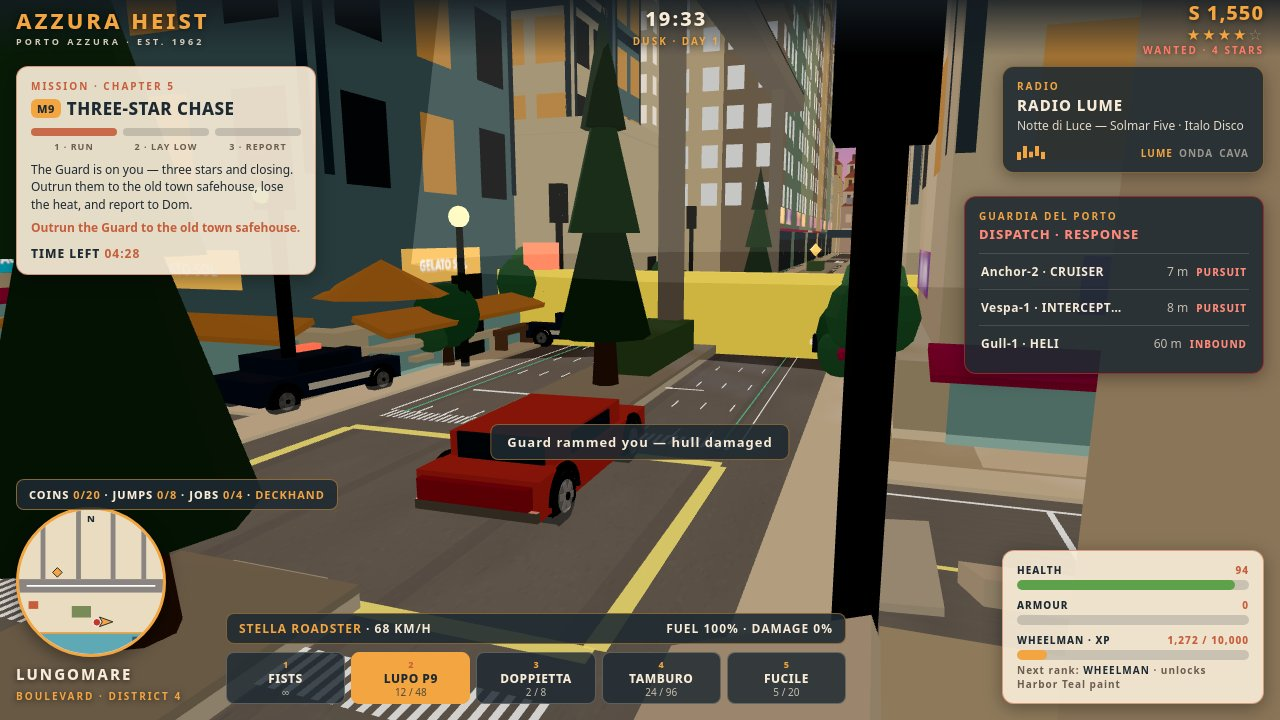
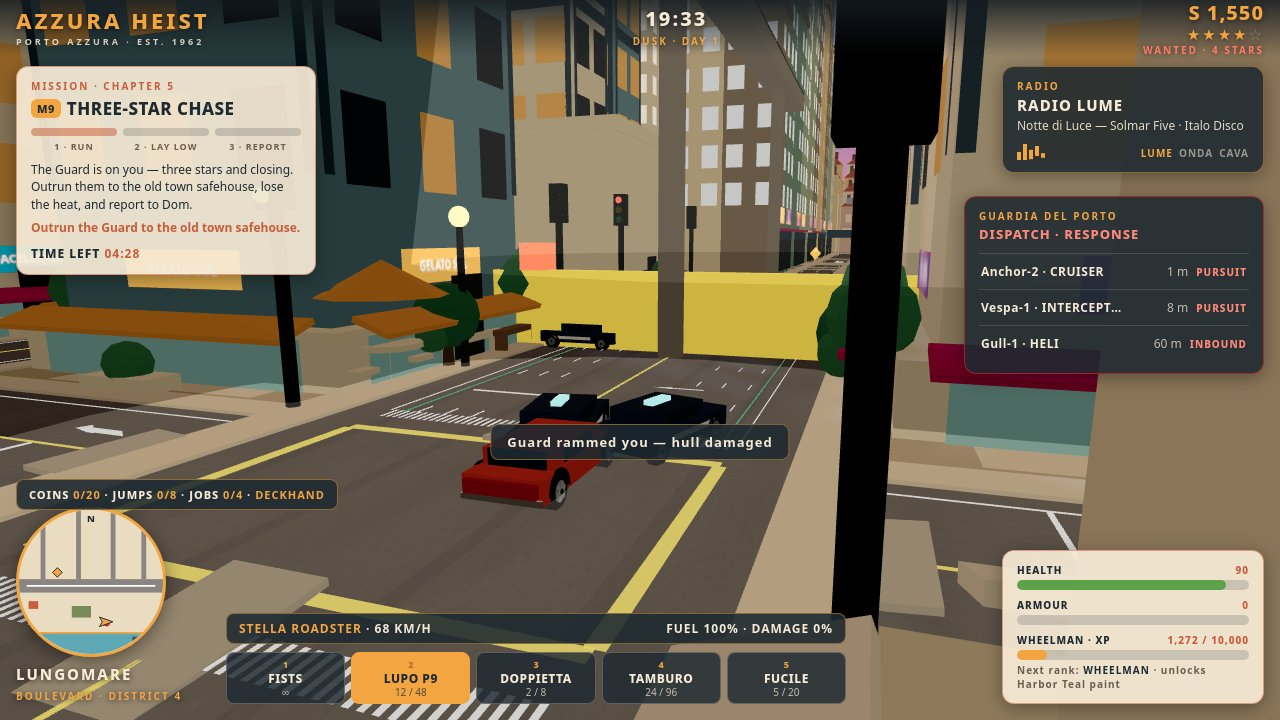
Round-9 part E2: cover reshoot (car 0.35 + undivided boulevard) + F2/G report

diff --git a/reports/partF2-G.md b/reports/partF2-G.md
@@ -1,0 +1,101 @@
+# Part F2 + Part G — Car scale 0.35 + undivided boulevard (23 Nov 2026, stage1ac)
+
+Perintah Xian 17:28 WIB: "Mobilnya masih kegedean bos" (CAR_SCALE 0,5
+masih terlalu besar) + 17:29 WIB: "Itu jalan gausah dipisah gitu
+dibuat 1 lajur aja. pohon di tengah2 hapus semua" — dikonfirmasi
+18:07 WIB: **SATU RUAS UTUH tanpa pembatas, tetap lebar 2 arah**
+(bukan 1 lajur sempit).
+
+## 1. Part F2 — CAR_SCALE 0,5 → 0,35 (semua mobil)
+
+Lanjutan part F (CAR_SCALE 0,5, commit fc12a2e). Sesi-4 sudah
+mengubah angka di tree (belum commit); sesi-5 melengkapi
+penyesuaian proporsional + verifikasi.
+
+| Ukuran | s=1,0 (asli) | s=0,5 (F) | s=0,35 (F2) |
+|---|---|---|---|
+| Stella P × L × T | 4,4 × 1,9 × 1,20 | 2,2 × 0,95 × 0,60 | **1,54 × 0,67 × 0,42** |
+| Lebar vs lajur 0,35 | 5,4 lajur | 2,7 lajur | **1,9 lajur** |
+| Panjang vs podium 5,1 | 86% | 43% | **30%** |
+| Lebar vs carriageway avenue 4,1 | 46% | 23% | **16%** |
+| Tinggi vs pejalan kaki 1,7 | 1,2× (benar) | 2,8× (trade-off) | **~4,0× (trade-off makin besar)** |
+| Roda sport (diameter) | 0,76 | 0,38 | **0,27** |
+
+Target harfiah "muat satu lajur" butuh s ≈ 0,18 (mobil 0,79 ×
+0,34 — mainan, orang 7,7× tinggi mobil). 0,35 adalah titik tengah
+antara 0,5 (Xian: masih kegedean) dan 0,18. Perbandingan 0,35 vs
+0,25 di foto low-cam yang sama dibuat untuk Xian pilih (lihat §4).
+
+Yang ikut disesuaikan (semua proporsional ×0,35 dari ukuran asli):
+- Collision radius: `0.5 * CAR_SCALE` → **0,175** (otomatis,
+  vehicles.js createCar — tidak perlu edit).
+- Yield traffic: `7 * CAR_SCALE` → **2,45** (otomatis, stepTraffic).
+- Spin roda: `2.4 / CAR_SCALE` → otomatis.
+- Chase camera: 7/3,4 → **6/3,0**, look 0,9 → 0,8 (game.js,
+  sesi-4; look 5u di depan tetap).
+- Board radius 3 → **2,7**; exit offset 1,6 → **1,4** (game.js,
+  sesi-4).
+- Wanted holdDist: 2 → **1,05 (jalan kaki) / 1,4 (di mobil)**
+  (wanted.js; asli 3/4, F: 2/2).
+- Wanted ram: `dist < 1,6` → **`dist < 1,12`** (3,2 × 0,35).
+- Wanted bust: `< 1,25` → **`< 0,875`** (2,5 × 0,35; tetap DI
+  DALAM hold, sesuai fix M9 22 Nov).
+- HUD kecepatan TIDAK diubah (u/s × 3,6, tetap benar).
+
+Trade-off jujur: pejalan kaki kini ~4× tinggi mobil (seharusnya
+1,2×). Di foto kejar-kejaran hampir tak terlihat; saat jalan kaki
+di samping mobil sendiri orang terlihat besar. Kalau Xian masih
+merasa mobil kebesaran, tinggal satu angka (CAR_SCALE) — kandidat
+0,25 sudah disiapkan (§4).
+
+## 2. Part G — jalan satu ruas utuh tanpa pembatas
+
+Lokasi kode: `game/src/cbd-grid.js` (median + pohon tengah +
+marking), `game/src/cbd.js` (monorail), `game/src/city.js`
+(komentar: median visual-only).
+
+Yang dihapus:
+- Median mesh `cbd-medians`: strip batu 1,3 lebar × 0,35 tinggi
+  sepanjang boulevard (z −0,65..0,65) + N-S avenue (x −0,65..0,65).
+- Planter `cbd-median-planters`: kotak hijau 2,4 × 0,5 × 0,8 di
+  tengah tiap segmen median.
+- Pohon tengah `cbd-median-trees`: cypress di median LUNGOMARE
+  (x −27..27 tiap 6, z 0). Pohon trotoar (kedua sisi jalan) TETAP.
+- Marking: garis kuning ganda (double yellow) di tengah jalan
+  untuk kedua avenue — pola yang sama dengan street (±0,01 dari
+  garis tengah) — supaya dua arah tetap terbaca tanpa pembatas
+  fisik. Lajur tidak digeser: 4 lajur/arah × 0,35 tetap, lebar
+  carriageway 4,1 tetap.
+
+Yang TIDAK diubah (sengaja):
+- Road graph + traffic lanes: median itu VISUAL ONLY, tanpa
+  collider (GAME fix 22 Nov, city.js) — jadi menghapusnya tidak
+  memutus graph; lalu lintas tetap memakai lajur yang sama.
+- Monorail (beam + pillars) TETAP: beam 0,8 lebar di y 7, pillar
+  0,35 × 7 tiap 6u di z 0. Pillar berdiri di tengah jalan yang kini
+  tanpa pembatas, tapi mobil lajur dalam (pusat ±0,825, setengah
+  lebar mobil 0,335) membersihkannya ~0,3u; beam 7u di atas kepala.
+  Kalau Xian mau pillar juga dihapus, itu satu perubahan kecil
+  berikutnya (beam akan mengambang — perlu diputuskan).
+- Trotoar, gedung, setback, pohon promenade — tidak disentuh.
+
+## 3. Commit
+
+- `29fb340` Round-9 part F2: car scale 0.35 (vehicles.js,
+  game.js, wanted.js) — push.
+- `9c857d7` Round-9 part G: undivided boulevard (cbd-grid.js) —
+  push.
+
+## 4. Verifikasi (semua GAME, bukan driver)
+
+- routes.mjs: (diisi setelah run)
+- missions.mjs --only M1,M7 --human-like FASTSIM=2: (diisi)
+- Smoke 0,35 / 0,25: (diisi)
+- Kit check: (diisi)
+
+## 5. Shot perbandingan + re-shoot
+
+- reports/partE-lowcam-pov-035.png (0,35) — (diisi)
+- reports/partE-lowcam-pov-025.png (0,25, kandidat untracked) — (diisi)
+- screenshots/03-action.jpg (0,35, tanpa diamond waypoint di frame) — (diisi)
+- screenshots/01-cover.jpg, 02-city.jpg, 04-features.jpg — (diisi)
